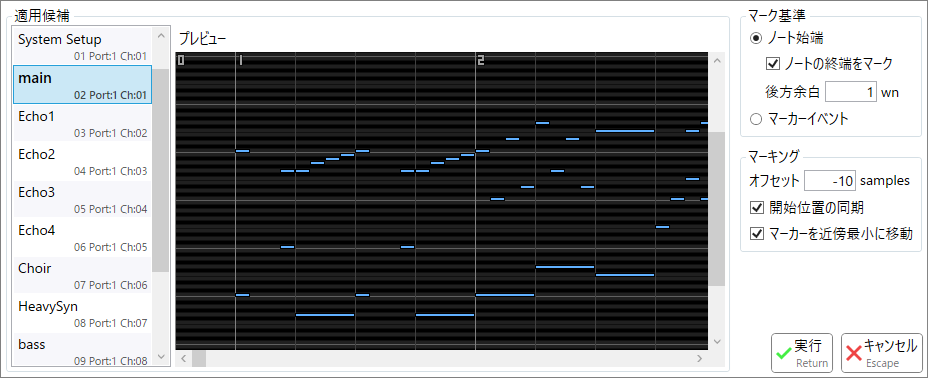
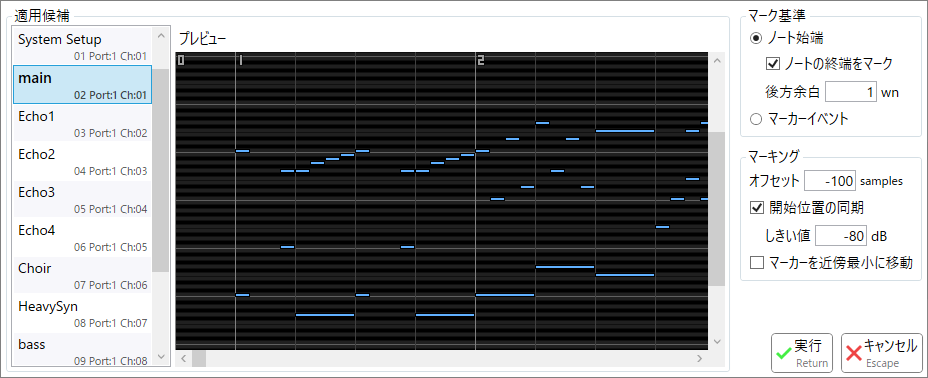
v0.7.36

Changed region(s): [[0.8125, 0.582, 1.0, 0.7275], [0.875, 0.4656, 1.0, 0.4947]]

diff --git a/docs/history.html b/docs/history.html
@@ -10,6 +10,38 @@
         <div class="content">
             <ul>
                 <li>
+                    <details id="0_7_36">
+                        <summary class="a-like">Version 0.7.36 (2025/09/17)</summary>
+                        <ul>
+                            <li>
+                                仕様変更
+                                <ul>
+                                    <li>
+                                        <a href="midi_slice.html">Midiモード/スライス</a>などの<b>トラックマーク</b>機能において、「しきい値」の項目を追加しました。
+                                        <ul>
+                                            <li>
+                                                「しきい値」で指定された音量レベルを<b>初めて上回った時点</b>が「音声の開始位置」とみなされます。
+                                            </li>
+                                        </ul>
+                                    </li>
+                                </ul>
+                            </li>
+                            <li>
+                                不具合修正
+                                <ul>
+                                    <li>
+                                        <a href="midi_slice.html">Midiモード/スライス</a>及び<a href="wave_trackMark.html">Waveモード/トラックマーク</a>において、特定条件下でマーカーが正しく配置されない不具合を修正しました。
+                                    </li>
+                                    <li>
+                                        <a href="midi_bmsExport.html">Midiモード/BMS出力</a>において、出力先フォルダが存在しない状態で「既存に追加」をクリックするとアプリが応答しなくなる不具合を修正しました。
+                                    </li>
+                                </ul>
+                            </li>
+                        </ul>
+                        <br>
+                    </details>
+                </li>
+                <li>
                     <details id="0_7_35">
                         <summary class="a-like">Version 0.7.35 (2025/09/12)</summary>
                         <ul>

diff --git a/docs/midi_defaultOptions.html b/docs/midi_defaultOptions.html
@@ -53,12 +53,12 @@
                      647,377, 24, 24, midi/options_reset_default.html;
                      692, 27,198,148, wave/slice_leftProcess.html;
                      692,175,198,178, wave/slice_rightProcess.html;
-                     890, 27,192,113, wave/trackMark_marking.html;
-                     896,164,180, 51, midi/slice_baseName.html;
-                     896,215,180, 29, wave/bytes.html;
-                    1010,251, 24, 24, midi/options_open.html;
-                    1034,251, 24, 24, midi/options_save.html;
-                    1058,251, 24, 24, midi/options_reset_default.html;
+                     890, 27,192,142, wave/trackMark_marking.html;
+                     896,193,180, 51, midi/slice_baseName.html;
+                     896,244,180, 29, wave/bytes.html;
+                    1010,280, 24, 24, midi/options_open.html;
+                    1034,280, 24, 24, midi/options_save.html;
+                    1058,280, 24, 24, midi/options_reset_default.html;
                      942,448, 56, 40, common/sub_decide.html;
                     1006,448, 82, 40, common/sub_cancel.html;">
                 </div>

diff --git a/docs/midi/slice_options.html b/docs/midi/slice_options.html
@@ -4,12 +4,12 @@
     <div class="image-map" src="img/midi_slice_options.png" maps="
           1,  1,199,152, wave/slice_leftProcess.html;
           1,153,199,177, wave/slice_rightProcess.html;
-        200,  1,193,115, wave/trackMark_marking.html;
-        206,140,180, 51, midi/slice_baseName.html;
-        206,191,180, 29, wave/bytes.html;
-        320,227, 24, 24, midi/options_open.html;
-        344,227, 24, 24, midi/options_save.html;
-        368,227, 24, 24, midi/options_reset.html;
+        200,  1,193,144, wave/trackMark_marking.html;
+        206,169,180, 51, midi/slice_baseName.html;
+        206,220,180, 29, wave/bytes.html;
+        320,256, 24, 24, midi/options_open.html;
+        344,256, 24, 24, midi/options_save.html;
+        368,256, 24, 24, midi/options_reset.html;
         ">
     </div>
 </div>

diff --git a/docs/wave/trackMark_marking.html b/docs/wave/trackMark_marking.html
@@ -13,6 +13,12 @@
     </li>
     <li>
         <b>開始位置の同期</b>: マーキングの開始位置と音声の開始位置を合わせます。
+        <ul>
+            <li>
+                「しきい値」で指定された音量レベルを<b>初めて上回った時点</b>が<br>
+                「音声の開始位置」とみなされます。
+            </li>
+        </ul>
     </li>
     <li>
         <b>マーカーを近傍最小に移動</b>: マーカー位置を付近の最も音量の小さい位置にずらします。

diff --git a/docs/wave_trackMark.html b/docs/wave_trackMark.html
@@ -26,7 +26,7 @@
                      11, 25,160,342, wave/trackMark_list.html, center;
                     171, 25,558,342, wave/trackMark_preview.html, center;
                     736,  5,190,137, wave/trackMark_reference.html;
-                    736,146,190,111, wave/trackMark_marking.html;
+                    736,146,190,140, wave/trackMark_marking.html;
                     771,333, 62, 40, wave/trackMark_execute.html;
                     841,333, 82, 40, common/cancel_restore.html;">
                 </div>

diff --git a/docs/index.html b/docs/index.html
@@ -11,7 +11,7 @@
             <div class="stack">
                 <a href="https://github.com/Kuroki-Narumi/BmsMaker3-Manual/releases" target="_blank">
                     <img src="img/logo.png" style="max-width: 100%;"/><br>
-                    Version 0.7.35<br>
+                    Version 0.7.36<br>
                 </a>
                 オールインワン型BMS制作補助ツール<br>
             </div>
